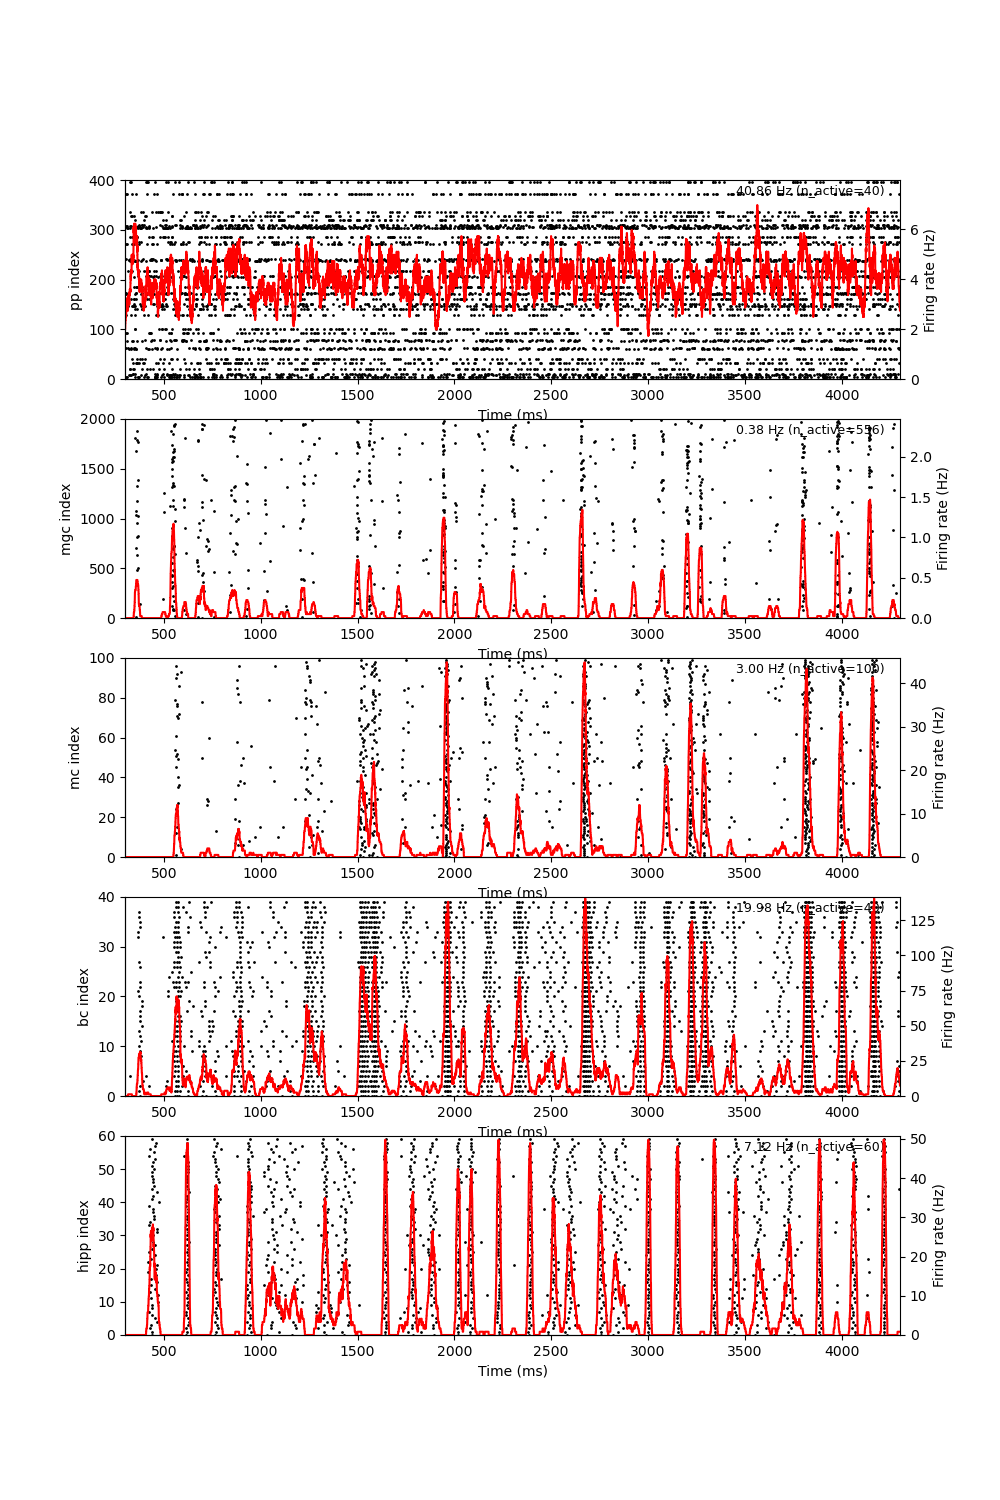
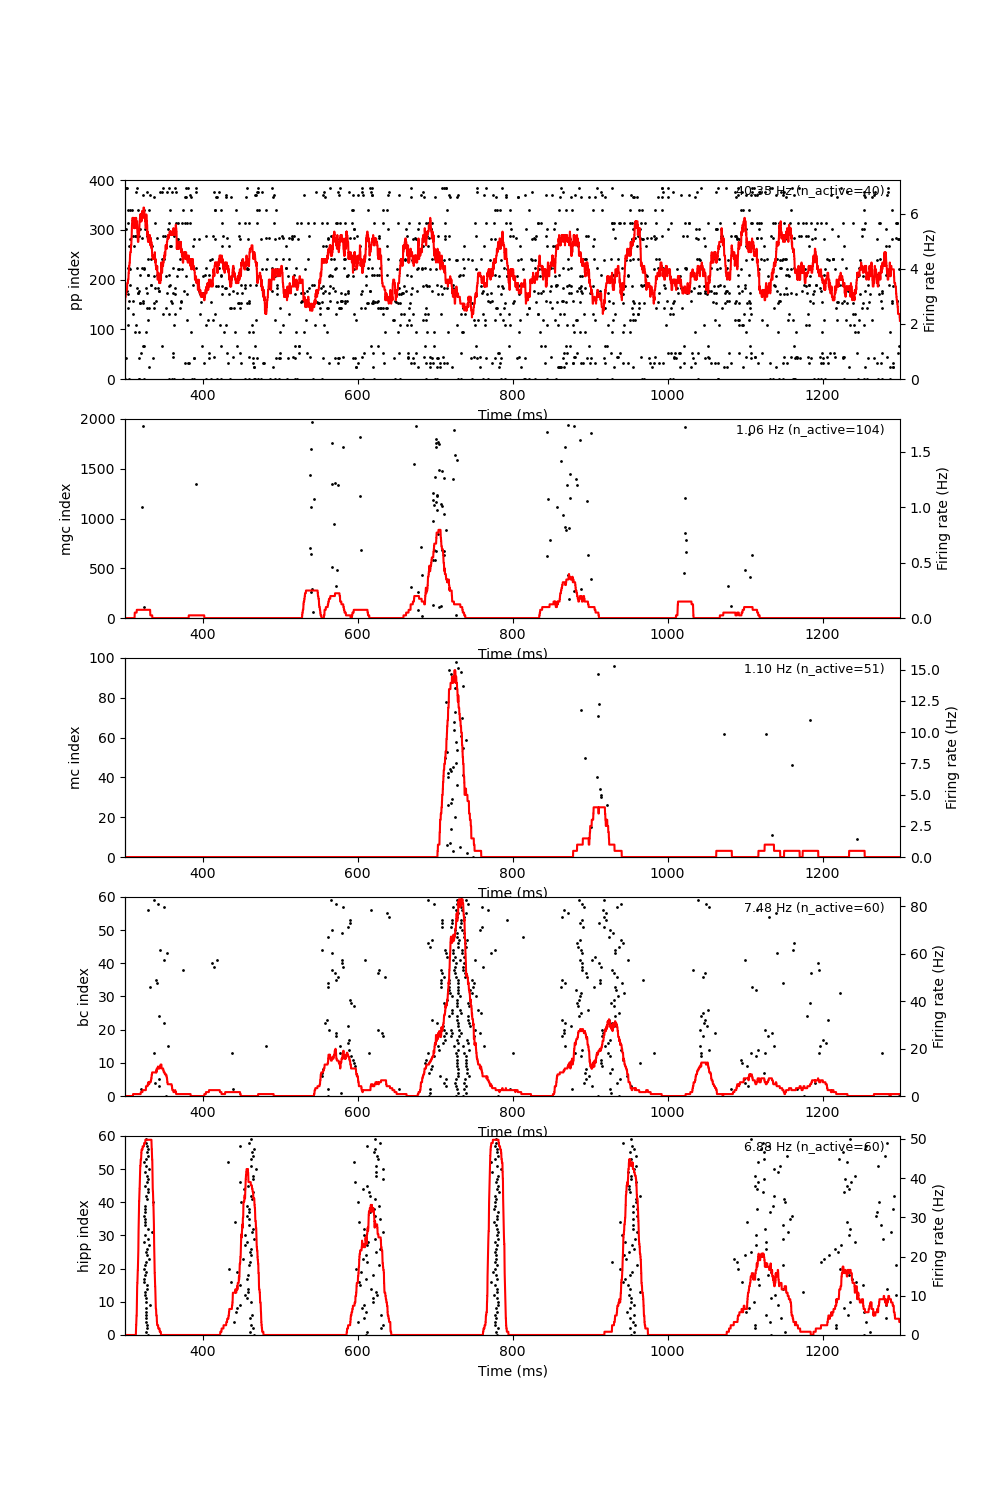
robust

Changed region(s): [[0.124, 0.1227, 0.961, 0.92], [0.093, 0.6747, 0.124, 0.7053], [0.093, 0.6133, 0.124, 0.644]]

diff --git a/params/synapses.py b/params/synapses.py
@@ -8,7 +8,7 @@ syn_params = {
         "syn_type" : "exc",
         "syn_var"  : 1,
         "p"        : 0.08,
-        "g"        : 1.8246 * nS,
+        "g"        : 1.6546 * nS,
         "tau_r"    : 266.2388 * ms,
         "tau_d"    : 5.3332 * ms,
         "tau_f"    : 18.7138 * ms,
@@ -31,7 +31,7 @@ syn_params = {
         "syn_var"  : 1,
         # "p"        : 0.0085,
         "p"        : 0.2, # Because 20% of mossy cells are MOLDEN
-        "g"        : 1.4222 * nS,
+        "g"        : 1.5222 * nS,
         "tau_d"    : 4.6711 * ms,
         "tau_r"    : 319.8348 * ms,
         "tau_f"    : 57.7657 * ms,
@@ -53,7 +53,7 @@ syn_params = {
     "pp_pca3": {
         "syn_type" : "exc",
         "syn_var"  : 1,
-        "p"        : 0.04,
+        "p"        : 0.08,
         "g"        : 1.0650 * nS,
         "tau_r"    : 258.3176 * ms,
         "tau_d"    : 6.5496 * ms,
@@ -64,9 +64,9 @@ syn_params = {
     "pp_ica3": {
         "syn_type" : "exc",
         "syn_var"  : 1,
-        "p"        : 0.2,
+        "p"        : 0.1,
         "g"        : 1.5561 * nS,
-        "tau_r"    : 457.4676 * ms,
+        "tau_r"    : 257.4676 * ms,
         "tau_d"    : 3.6021 * ms,
         "tau_f"    : 35.9037 * ms,
         "U_se"     : 0.2096,
@@ -77,12 +77,12 @@ syn_params = {
         "syn_type" : "exc",
         "syn_var"  : 2,
         # "p"        : 0.0078,
-        "p"        : 0.1,
+        "p"        : 0.3,
         # "condition": lamellar_conn(N_mgc_l, N_mc_l),
-        "g"        : 4.7130 * nS,
+        "g"        : 2.7130 * nS,
         "tau_r"    : 98.5826 * ms,
         "tau_d"    : 5.3469 * ms,
-        "tau_f"    : 33.4791 * ms,
+        "tau_f"    : 27.4791 * ms,
         "U_se"     : 0.1513,
         "delay"    : 1.0 * ms
     },
@@ -119,7 +119,7 @@ syn_params = {
     "mgc_pca3": {
         "syn_type" : "exc",
         "syn_var"  : 2,
-        "p"        : 0.6,
+        "p"        : 0.8,
         "condition": lamellar_conn(N_mgc_l, N_pca3_l),
         "g"        : 1.3842 * nS,
         "tau_r"    : 278.2858 * ms,
@@ -134,7 +134,7 @@ syn_params = {
         "p"        : 1.0,
         "condition": lamellar_conn(N_mgc_l, N_ica3_l),
         "g"        : 1.6245 * nS,
-        "tau_r"    : 518.9344 * ms,
+        "tau_r"    : 318.9344 * ms,
         "tau_d"    : 3.9147 * ms,
         "tau_f"    : 43.2742 * ms,
         "U_se"     : 0.1756,
@@ -269,9 +269,9 @@ syn_params = {
         "syn_type" : "inh",
         "syn_var"  : 3,
         # "p"        : 0.0060,
-        "p"        : 0.2,
-        "g"        : 3.0020 * nS,
-        "tau_r"    : 359.1428 * ms,
+        "p"        : 0.25,
+        "g"        : 3.2020 * nS,
+        "tau_r"    : 159.1428 * ms,
         "tau_d"    : 8.9349 * ms,
         "tau_f"    : 10.3959 * ms,
         "U_se"     : 0.2781,
@@ -308,9 +308,9 @@ syn_params = {
         # "p"        : 0.0064,
         "p"        : 1.0,
         "condition": lamellar_conn(N_bc_l, N_mgc_l),
-        "g"        : 4.6509 * nS,
-        "tau_r"    : 233.8758 * ms,
-        "tau_d"    : 6.5435 * ms,
+        "g"        : 3.8509 * nS,
+        "tau_r"    : 123.8758 * ms,
+        "tau_d"    : 3.5435 * ms,
         "tau_f"    : 12.3474 * ms,
         "U_se"     : 0.3320,
         "delay"    : 1.0 * ms

diff --git a/utils/args_config.py b/utils/args_config.py
@@ -26,7 +26,7 @@ parser.add_argument("--n-lamellae", type=int, default=20, help="Number of lamell
 parser.add_argument("--n-pp", type=int, default=400, help="Number of PP axons")
 parser.add_argument("--n-mgc", type=int, default=2000, help="Number of mGC neurons")
 parser.add_argument("--n-igc", type=int, default=100, help="Number of iGC neurons")
-parser.add_argument("--n-bc", type=int, default=40, help="Number of BC neurons")
+parser.add_argument("--n-bc", type=int, default=60, help="Number of BC neurons")
 parser.add_argument("--n-mc", type=int, default=100, help="Number of MC neurons")
 parser.add_argument("--n-hipp", type=int, default=60, help="Number of HIPP neurons")
 parser.add_argument("--n-pca3", type=int, default=600, help="Number of CA3 neurons")
